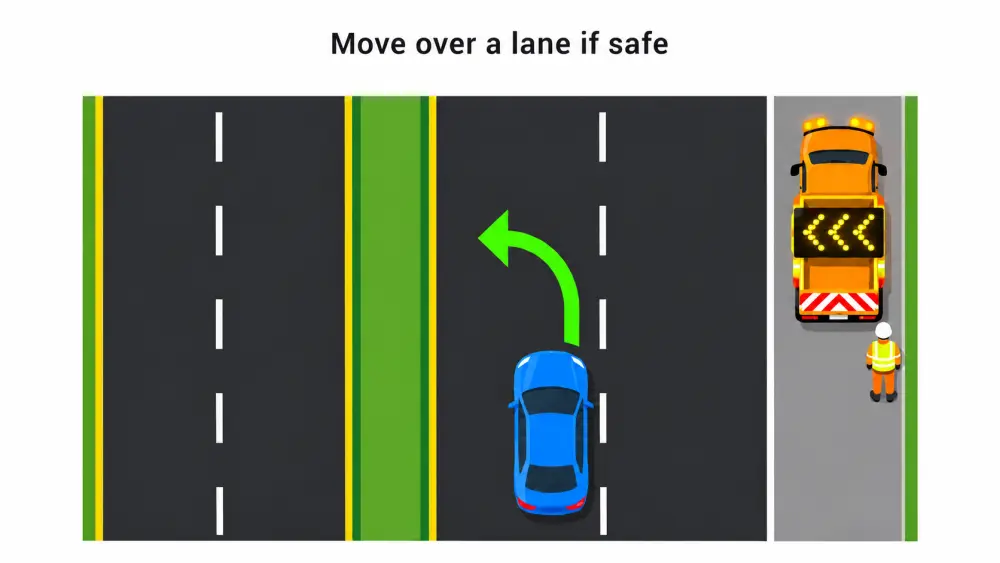
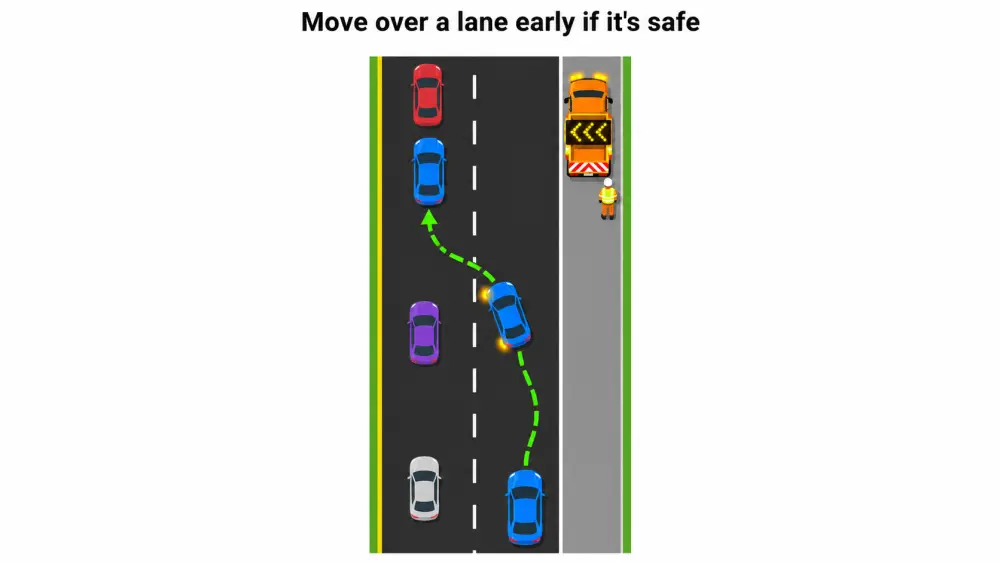
Move-over diagrams: zoomed-out merge and slow-down versions (Leah feedback)

diff --git a/move-over/indiana/index.html b/move-over/indiana/index.html
@@ -116,7 +116,7 @@
     <div class="sc-body" style="max-width:78ch;font-size:16px;line-height:1.6">
     <h2>What you have to do</h2>
     <ul><li>On a road with 4 or more lanes (2 or more each way), change to a lane not next to the vehicle if safe. Otherwise slow to at least 10 mph below the posted limit.</li></ul>
-    <figure style="margin:14px 0"><img src="/images/move-over/multilane.webp" width="1000" height="563" loading="lazy" alt="Diagram: a car moves one lane left, away from a stopped road crew truck with a flashing arrow board on the shoulder" style="max-width:100%;height:auto;border-radius:10px"></figure><figure style="margin:14px 0"><img src="/images/move-over/twolane.webp" width="1000" height="563" loading="lazy" alt="Diagram: on a two-lane road with oncoming traffic, a car stays in its lane and slows down past a tow truck helping a broken-down car" style="max-width:100%;height:auto;border-radius:10px"></figure>
+    <figure style="margin:14px 0"><img src="/images/move-over/multilane.webp" width="1000" height="563" loading="lazy" alt="Diagram: well before a stopped road crew truck on the right shoulder, a car moves from the right lane into a gap in the left lane and passes with the lane next to the truck empty" style="max-width:100%;height:auto;border-radius:10px"></figure><figure style="margin:14px 0"><img src="/images/move-over/twolane.webp" width="1000" height="563" loading="lazy" alt="Diagram: on a two-lane road with oncoming traffic, a car slows from 55 to 40 well before a tow truck helping a broken-down car on the shoulder" style="max-width:100%;height:auto;border-radius:10px"></figure>
     <h2>Who it protects</h2>
     <div><span style="display:inline-flex;align-items:center;gap:6px;border:1px solid #D6E8DE;border-radius:999px;padding:6px 12px;margin:0 6px 8px 0;font-size:15px;font-weight:600;background:#fff"><span aria-hidden="true">🚓</span>Police</span><span style="display:inline-flex;align-items:center;gap:6px;border:1px solid #D6E8DE;border-radius:999px;padding:6px 12px;margin:0 6px 8px 0;font-size:15px;font-weight:600;background:#fff"><span aria-hidden="true">🚑</span>Ambulances</span><span style="display:inline-flex;align-items:center;gap:6px;border:1px solid #D6E8DE;border-radius:999px;padding:6px 12px;margin:0 6px 8px 0;font-size:15px;font-weight:600;background:#fff"><span aria-hidden="true">🚒</span>Fire trucks</span><span style="display:inline-flex;align-items:center;gap:6px;border:1px solid #D6E8DE;border-radius:999px;padding:6px 12px;margin:0 6px 8px 0;font-size:15px;font-weight:600;background:#fff"><span aria-hidden="true">🛻</span>Tow trucks</span><span style="display:inline-flex;align-items:center;gap:6px;border:1px solid #D6E8DE;border-radius:999px;padding:6px 12px;margin:0 6px 8px 0;font-size:15px;font-weight:600;background:#fff"><span aria-hidden="true">🚧</span>Road crews and construction</span><span style="display:inline-flex;align-items:center;gap:6px;border:1px solid #D6E8DE;border-radius:999px;padding:6px 12px;margin:0 6px 8px 0;font-size:15px;font-weight:600;background:#fff"><span aria-hidden="true">❄</span>Snowplows</span><span style="display:inline-flex;align-items:center;gap:6px;border:1px solid #D6E8DE;border-radius:999px;padding:6px 12px;margin:0 6px 8px 0;font-size:15px;font-weight:600;background:#fff"><span aria-hidden="true">⚠</span>Breakdowns with hazard lights</span><span style="display:inline-flex;align-items:center;gap:6px;border:1px solid #D6E8DE;border-radius:999px;padding:6px 12px;margin:0 6px 8px 0;font-size:15px;font-weight:600;background:#fff"><span aria-hidden="true">🔌</span>Utility crews</span><span style="display:inline-flex;align-items:center;gap:6px;border:1px solid #D6E8DE;border-radius:999px;padding:6px 12px;margin:0 6px 8px 0;font-size:15px;font-weight:600;background:#fff"><span aria-hidden="true">🗑</span>Garbage trucks</span></div>
     <p style="color:#5b6670;font-size:14px;margin:6px 0 2px">What the statute says:</p>

diff --git a/move-over/florida/index.html b/move-over/florida/index.html
@@ -116,7 +116,7 @@
     <div class="sc-body" style="max-width:78ch;font-size:16px;line-height:1.6">
     <h2>What you have to do</h2>
     <ul><li>Move out of the lane closest to the vehicle if safe.</li><li>Otherwise slow to 20 mph below the limit (5 mph if the limit is 20 or less) on two-lane roads.</li></ul>
-    <figure style="margin:14px 0"><img src="/images/move-over/multilane.webp" width="1000" height="563" loading="lazy" alt="Diagram: a car moves one lane left, away from a stopped road crew truck with a flashing arrow board on the shoulder" style="max-width:100%;height:auto;border-radius:10px"></figure><figure style="margin:14px 0"><img src="/images/move-over/twolane.webp" width="1000" height="563" loading="lazy" alt="Diagram: on a two-lane road with oncoming traffic, a car stays in its lane and slows down past a tow truck helping a broken-down car" style="max-width:100%;height:auto;border-radius:10px"></figure>
+    <figure style="margin:14px 0"><img src="/images/move-over/multilane.webp" width="1000" height="563" loading="lazy" alt="Diagram: well before a stopped road crew truck on the right shoulder, a car moves from the right lane into a gap in the left lane and passes with the lane next to the truck empty" style="max-width:100%;height:auto;border-radius:10px"></figure><figure style="margin:14px 0"><img src="/images/move-over/twolane.webp" width="1000" height="563" loading="lazy" alt="Diagram: on a two-lane road with oncoming traffic, a car slows from 55 to 40 well before a tow truck helping a broken-down car on the shoulder" style="max-width:100%;height:auto;border-radius:10px"></figure>
     <h2>Who it protects</h2>
     <div><span style="display:inline-flex;align-items:center;gap:6px;border:1px solid #D6E8DE;border-radius:999px;padding:6px 12px;margin:0 6px 8px 0;font-size:15px;font-weight:600;background:#fff"><span aria-hidden="true">🚓</span>Police</span><span style="display:inline-flex;align-items:center;gap:6px;border:1px solid #D6E8DE;border-radius:999px;padding:6px 12px;margin:0 6px 8px 0;font-size:15px;font-weight:600;background:#fff"><span aria-hidden="true">🚑</span>Ambulances</span><span style="display:inline-flex;align-items:center;gap:6px;border:1px solid #D6E8DE;border-radius:999px;padding:6px 12px;margin:0 6px 8px 0;font-size:15px;font-weight:600;background:#fff"><span aria-hidden="true">🚒</span>Fire trucks</span><span style="display:inline-flex;align-items:center;gap:6px;border:1px solid #D6E8DE;border-radius:999px;padding:6px 12px;margin:0 6px 8px 0;font-size:15px;font-weight:600;background:#fff"><span aria-hidden="true">🛻</span>Tow trucks</span><span style="display:inline-flex;align-items:center;gap:6px;border:1px solid #D6E8DE;border-radius:999px;padding:6px 12px;margin:0 6px 8px 0;font-size:15px;font-weight:600;background:#fff"><span aria-hidden="true">🚧</span>Road crews and construction</span><span style="display:inline-flex;align-items:center;gap:6px;border:1px solid #D6E8DE;border-radius:999px;padding:6px 12px;margin:0 6px 8px 0;font-size:15px;font-weight:600;background:#fff"><span aria-hidden="true">❄</span>Snowplows</span><span style="display:inline-flex;align-items:center;gap:6px;border:1px solid #D6E8DE;border-radius:999px;padding:6px 12px;margin:0 6px 8px 0;font-size:15px;font-weight:600;background:#fff"><span aria-hidden="true">⚠</span>Breakdowns with hazard lights</span><span style="display:inline-flex;align-items:center;gap:6px;border:1px solid #D6E8DE;border-radius:999px;padding:6px 12px;margin:0 6px 8px 0;font-size:15px;font-weight:600;background:#fff"><span aria-hidden="true">🔌</span>Utility crews</span><span style="display:inline-flex;align-items:center;gap:6px;border:1px solid #D6E8DE;border-radius:999px;padding:6px 12px;margin:0 6px 8px 0;font-size:15px;font-weight:600;background:#fff"><span aria-hidden="true">🗑</span>Garbage trucks</span></div>
     <p style="color:#5b6670;font-size:14px;margin:6px 0 2px">What the statute says:</p>

diff --git a/move-over/iowa/index.html b/move-over/iowa/index.html
@@ -116,7 +116,7 @@
     <div class="sc-body" style="max-width:78ch;font-size:16px;line-height:1.6">
     <h2>What you have to do</h2>
     <ul><li>Change to a lane not next to the stopped vehicle if possible. If not, slow to a reasonable speed below the posted limit and be ready to stop.</li></ul>
-    <figure style="margin:14px 0"><img src="/images/move-over/multilane.webp" width="1000" height="563" loading="lazy" alt="Diagram: a car moves one lane left, away from a stopped road crew truck with a flashing arrow board on the shoulder" style="max-width:100%;height:auto;border-radius:10px"></figure><figure style="margin:14px 0"><img src="/images/move-over/twolane.webp" width="1000" height="563" loading="lazy" alt="Diagram: on a two-lane road with oncoming traffic, a car stays in its lane and slows down past a tow truck helping a broken-down car" style="max-width:100%;height:auto;border-radius:10px"></figure>
+    <figure style="margin:14px 0"><img src="/images/move-over/multilane.webp" width="1000" height="563" loading="lazy" alt="Diagram: well before a stopped road crew truck on the right shoulder, a car moves from the right lane into a gap in the left lane and passes with the lane next to the truck empty" style="max-width:100%;height:auto;border-radius:10px"></figure><figure style="margin:14px 0"><img src="/images/move-over/twolane.webp" width="1000" height="563" loading="lazy" alt="Diagram: on a two-lane road with oncoming traffic, a car slows from 55 to 40 well before a tow truck helping a broken-down car on the shoulder" style="max-width:100%;height:auto;border-radius:10px"></figure>
     <h2>Who it protects</h2>
     <div><span style="display:inline-flex;align-items:center;gap:6px;border:1px solid #D6E8DE;border-radius:999px;padding:6px 12px;margin:0 6px 8px 0;font-size:15px;font-weight:600;background:#fff"><span aria-hidden="true">🚓</span>Police</span><span style="display:inline-flex;align-items:center;gap:6px;border:1px solid #D6E8DE;border-radius:999px;padding:6px 12px;margin:0 6px 8px 0;font-size:15px;font-weight:600;background:#fff"><span aria-hidden="true">🚑</span>Ambulances</span><span style="display:inline-flex;align-items:center;gap:6px;border:1px solid #D6E8DE;border-radius:999px;padding:6px 12px;margin:0 6px 8px 0;font-size:15px;font-weight:600;background:#fff"><span aria-hidden="true">🚒</span>Fire trucks</span><span style="display:inline-flex;align-items:center;gap:6px;border:1px solid #D6E8DE;border-radius:999px;padding:6px 12px;margin:0 6px 8px 0;font-size:15px;font-weight:600;background:#fff"><span aria-hidden="true">🛻</span>Tow trucks</span><span style="display:inline-flex;align-items:center;gap:6px;border:1px solid #D6E8DE;border-radius:999px;padding:6px 12px;margin:0 6px 8px 0;font-size:15px;font-weight:600;background:#fff"><span aria-hidden="true">🚧</span>Road crews and construction</span><span style="display:inline-flex;align-items:center;gap:6px;border:1px solid #D6E8DE;border-radius:999px;padding:6px 12px;margin:0 6px 8px 0;font-size:15px;font-weight:600;background:#fff"><span aria-hidden="true">❄</span>Snowplows</span><span style="display:inline-flex;align-items:center;gap:6px;border:1px solid #D6E8DE;border-radius:999px;padding:6px 12px;margin:0 6px 8px 0;font-size:15px;font-weight:600;background:#fff"><span aria-hidden="true">⚠</span>Breakdowns with hazard lights</span><span style="display:inline-flex;align-items:center;gap:6px;border:1px solid #D6E8DE;border-radius:999px;padding:6px 12px;margin:0 6px 8px 0;font-size:15px;font-weight:600;background:#fff"><span aria-hidden="true">🔌</span>Utility crews</span><span style="display:inline-flex;align-items:center;gap:6px;border:1px solid #D6E8DE;border-radius:999px;padding:6px 12px;margin:0 6px 8px 0;font-size:15px;font-weight:600;background:#fff"><span aria-hidden="true">🗑</span>Garbage trucks</span></div>
     <p style="color:#5b6670;font-size:14px;margin:6px 0 2px">What the statute says:</p>

diff --git a/move-over/minnesota/index.html b/move-over/minnesota/index.html
@@ -116,7 +116,7 @@
     <div class="sc-body" style="max-width:78ch;font-size:16px;line-height:1.6">
     <h2>What you have to do</h2>
     <ul><li>Move to the lane farthest away, or leave a full lane open, if possible. If not, slow to a reasonable and prudent speed until past.</li></ul>
-    <figure style="margin:14px 0"><img src="/images/move-over/multilane.webp" width="1000" height="563" loading="lazy" alt="Diagram: a car moves one lane left, away from a stopped road crew truck with a flashing arrow board on the shoulder" style="max-width:100%;height:auto;border-radius:10px"></figure><figure style="margin:14px 0"><img src="/images/move-over/twolane.webp" width="1000" height="563" loading="lazy" alt="Diagram: on a two-lane road with oncoming traffic, a car stays in its lane and slows down past a tow truck helping a broken-down car" style="max-width:100%;height:auto;border-radius:10px"></figure>
+    <figure style="margin:14px 0"><img src="/images/move-over/multilane.webp" width="1000" height="563" loading="lazy" alt="Diagram: well before a stopped road crew truck on the right shoulder, a car moves from the right lane into a gap in the left lane and passes with the lane next to the truck empty" style="max-width:100%;height:auto;border-radius:10px"></figure><figure style="margin:14px 0"><img src="/images/move-over/twolane.webp" width="1000" height="563" loading="lazy" alt="Diagram: on a two-lane road with oncoming traffic, a car slows from 55 to 40 well before a tow truck helping a broken-down car on the shoulder" style="max-width:100%;height:auto;border-radius:10px"></figure>
     <h2>Who it protects</h2>
     <div><span style="display:inline-flex;align-items:center;gap:6px;border:1px solid #D6E8DE;border-radius:999px;padding:6px 12px;margin:0 6px 8px 0;font-size:15px;font-weight:600;background:#fff"><span aria-hidden="true">🚓</span>Police</span><span style="display:inline-flex;align-items:center;gap:6px;border:1px solid #D6E8DE;border-radius:999px;padding:6px 12px;margin:0 6px 8px 0;font-size:15px;font-weight:600;background:#fff"><span aria-hidden="true">🚑</span>Ambulances</span><span style="display:inline-flex;align-items:center;gap:6px;border:1px solid #D6E8DE;border-radius:999px;padding:6px 12px;margin:0 6px 8px 0;font-size:15px;font-weight:600;background:#fff"><span aria-hidden="true">🚒</span>Fire trucks</span><span style="display:inline-flex;align-items:center;gap:6px;border:1px solid #D6E8DE;border-radius:999px;padding:6px 12px;margin:0 6px 8px 0;font-size:15px;font-weight:600;background:#fff"><span aria-hidden="true">🛻</span>Tow trucks</span><span style="display:inline-flex;align-items:center;gap:6px;border:1px solid #D6E8DE;border-radius:999px;padding:6px 12px;margin:0 6px 8px 0;font-size:15px;font-weight:600;background:#fff"><span aria-hidden="true">🚧</span>Road crews and construction</span><span style="display:inline-flex;align-items:center;gap:6px;border:1px solid #D6E8DE;border-radius:999px;padding:6px 12px;margin:0 6px 8px 0;font-size:15px;font-weight:600;background:#fff"><span aria-hidden="true">❄</span>Snowplows</span><span style="display:inline-flex;align-items:center;gap:6px;border:1px solid #D6E8DE;border-radius:999px;padding:6px 12px;margin:0 6px 8px 0;font-size:15px;font-weight:600;background:#fff"><span aria-hidden="true">⚠</span>Breakdowns with hazard lights</span><span style="display:inline-flex;align-items:center;gap:6px;border:1px solid #D6E8DE;border-radius:999px;padding:6px 12px;margin:0 6px 8px 0;font-size:15px;font-weight:600;background:#fff"><span aria-hidden="true">🔌</span>Utility crews</span><span style="display:inline-flex;align-items:center;gap:6px;border:1px solid #D6E8DE;border-radius:999px;padding:6px 12px;margin:0 6px 8px 0;font-size:15px;font-weight:600;background:#fff"><span aria-hidden="true">🗑</span>Garbage trucks</span></div>
     <p style="color:#5b6670;font-size:14px;margin:6px 0 2px">What the statute says:</p>

diff --git a/move-over/nebraska/index.html b/move-over/nebraska/index.html
@@ -116,7 +116,7 @@
     <div class="sc-body" style="max-width:78ch;font-size:16px;line-height:1.6">
     <h2>What you have to do</h2>
     <ul><li>Move at least one lane away if possible, otherwise slow to a safe speed and proceed with care.</li></ul>
-    <figure style="margin:14px 0"><img src="/images/move-over/multilane.webp" width="1000" height="563" loading="lazy" alt="Diagram: a car moves one lane left, away from a stopped road crew truck with a flashing arrow board on the shoulder" style="max-width:100%;height:auto;border-radius:10px"></figure><figure style="margin:14px 0"><img src="/images/move-over/twolane.webp" width="1000" height="563" loading="lazy" alt="Diagram: on a two-lane road with oncoming traffic, a car stays in its lane and slows down past a tow truck helping a broken-down car" style="max-width:100%;height:auto;border-radius:10px"></figure>
+    <figure style="margin:14px 0"><img src="/images/move-over/multilane.webp" width="1000" height="563" loading="lazy" alt="Diagram: well before a stopped road crew truck on the right shoulder, a car moves from the right lane into a gap in the left lane and passes with the lane next to the truck empty" style="max-width:100%;height:auto;border-radius:10px"></figure><figure style="margin:14px 0"><img src="/images/move-over/twolane.webp" width="1000" height="563" loading="lazy" alt="Diagram: on a two-lane road with oncoming traffic, a car slows from 55 to 40 well before a tow truck helping a broken-down car on the shoulder" style="max-width:100%;height:auto;border-radius:10px"></figure>
     <h2>Who it protects</h2>
     <div><span style="display:inline-flex;align-items:center;gap:6px;border:1px solid #D6E8DE;border-radius:999px;padding:6px 12px;margin:0 6px 8px 0;font-size:15px;font-weight:600;background:#fff"><span aria-hidden="true">🚓</span>Police</span><span style="display:inline-flex;align-items:center;gap:6px;border:1px solid #D6E8DE;border-radius:999px;padding:6px 12px;margin:0 6px 8px 0;font-size:15px;font-weight:600;background:#fff"><span aria-hidden="true">🚑</span>Ambulances</span><span style="display:inline-flex;align-items:center;gap:6px;border:1px solid #D6E8DE;border-radius:999px;padding:6px 12px;margin:0 6px 8px 0;font-size:15px;font-weight:600;background:#fff"><span aria-hidden="true">🚒</span>Fire trucks</span><span style="display:inline-flex;align-items:center;gap:6px;border:1px solid #D6E8DE;border-radius:999px;padding:6px 12px;margin:0 6px 8px 0;font-size:15px;font-weight:600;background:#fff"><span aria-hidden="true">🛻</span>Tow trucks</span><span style="display:inline-flex;align-items:center;gap:6px;border:1px solid #D6E8DE;border-radius:999px;padding:6px 12px;margin:0 6px 8px 0;font-size:15px;font-weight:600;background:#fff"><span aria-hidden="true">🚧</span>Road crews and construction</span><span style="display:inline-flex;align-items:center;gap:6px;border:1px solid #D6E8DE;border-radius:999px;padding:6px 12px;margin:0 6px 8px 0;font-size:15px;font-weight:600;background:#fff"><span aria-hidden="true">❄</span>Snowplows</span><span style="display:inline-flex;align-items:center;gap:6px;border:1px solid #D6E8DE;border-radius:999px;padding:6px 12px;margin:0 6px 8px 0;font-size:15px;font-weight:600;background:#fff"><span aria-hidden="true">⚠</span>Breakdowns with hazard lights</span><span style="display:inline-flex;align-items:center;gap:6px;border:1px solid #D6E8DE;border-radius:999px;padding:6px 12px;margin:0 6px 8px 0;font-size:15px;font-weight:600;background:#fff"><span aria-hidden="true">🔌</span>Utility crews</span><span style="display:inline-flex;align-items:center;gap:6px;border:1px solid #D6E8DE;border-radius:999px;padding:6px 12px;margin:0 6px 8px 0;font-size:15px;font-weight:600;background:#fff"><span aria-hidden="true">🗑</span>Garbage trucks</span></div>
     <p style="color:#5b6670;font-size:14px;margin:6px 0 2px">What the statute says:</p>

diff --git a/move-over/alabama/index.html b/move-over/alabama/index.html
@@ -116,7 +116,7 @@
     <div class="sc-body" style="max-width:78ch;font-size:16px;line-height:1.6">
     <h2>What you have to do</h2>
     <ul><li>Move out of the lane closest to the vehicle on multi-lane roads, or slow to at least 15 mph below the limit if you cannot.</li><li>On two-lane roads move as far over as possible and slow down.</li></ul>
-    <figure style="margin:14px 0"><img src="/images/move-over/multilane.webp" width="1000" height="563" loading="lazy" alt="Diagram: a car moves one lane left, away from a stopped road crew truck with a flashing arrow board on the shoulder" style="max-width:100%;height:auto;border-radius:10px"></figure><figure style="margin:14px 0"><img src="/images/move-over/twolane.webp" width="1000" height="563" loading="lazy" alt="Diagram: on a two-lane road with oncoming traffic, a car stays in its lane and slows down past a tow truck helping a broken-down car" style="max-width:100%;height:auto;border-radius:10px"></figure>
+    <figure style="margin:14px 0"><img src="/images/move-over/multilane.webp" width="1000" height="563" loading="lazy" alt="Diagram: well before a stopped road crew truck on the right shoulder, a car moves from the right lane into a gap in the left lane and passes with the lane next to the truck empty" style="max-width:100%;height:auto;border-radius:10px"></figure><figure style="margin:14px 0"><img src="/images/move-over/twolane.webp" width="1000" height="563" loading="lazy" alt="Diagram: on a two-lane road with oncoming traffic, a car slows from 55 to 40 well before a tow truck helping a broken-down car on the shoulder" style="max-width:100%;height:auto;border-radius:10px"></figure>
     <h2>Who it protects</h2>
     <div><span style="display:inline-flex;align-items:center;gap:6px;border:1px solid #D6E8DE;border-radius:999px;padding:6px 12px;margin:0 6px 8px 0;font-size:15px;font-weight:600;background:#fff"><span aria-hidden="true">🚓</span>Police</span><span style="display:inline-flex;align-items:center;gap:6px;border:1px solid #D6E8DE;border-radius:999px;padding:6px 12px;margin:0 6px 8px 0;font-size:15px;font-weight:600;background:#fff"><span aria-hidden="true">🚑</span>Ambulances</span><span style="display:inline-flex;align-items:center;gap:6px;border:1px solid #D6E8DE;border-radius:999px;padding:6px 12px;margin:0 6px 8px 0;font-size:15px;font-weight:600;background:#fff"><span aria-hidden="true">🚒</span>Fire trucks</span><span style="display:inline-flex;align-items:center;gap:6px;border:1px solid #D6E8DE;border-radius:999px;padding:6px 12px;margin:0 6px 8px 0;font-size:15px;font-weight:600;background:#fff"><span aria-hidden="true">🛻</span>Tow trucks</span><span style="display:inline-flex;align-items:center;gap:6px;border:1px solid #D6E8DE;border-radius:999px;padding:6px 12px;margin:0 6px 8px 0;font-size:15px;font-weight:600;background:#fff"><span aria-hidden="true">🚧</span>Road crews and construction</span><span style="display:inline-flex;align-items:center;gap:6px;border:1px solid #D6E8DE;border-radius:999px;padding:6px 12px;margin:0 6px 8px 0;font-size:15px;font-weight:600;background:#fff"><span aria-hidden="true">❄</span>Snowplows</span><span style="display:inline-flex;align-items:center;gap:6px;border:1px solid #D6E8DE;border-radius:999px;padding:6px 12px;margin:0 6px 8px 0;font-size:15px;font-weight:600;background:#fff"><span aria-hidden="true">🔌</span>Utility crews</span><span style="display:inline-flex;align-items:center;gap:6px;border:1px solid #D6E8DE;border-radius:999px;padding:6px 12px;margin:0 6px 8px 0;font-size:15px;font-weight:600;background:#fff"><span aria-hidden="true">🗑</span>Garbage trucks</span></div>
     <p style="color:#5b6670;font-size:14px;margin:6px 0 2px">What the statute says:</p>

diff --git a/move-over/texas/index.html b/move-over/texas/index.html
@@ -116,7 +116,7 @@
     <div class="sc-body" style="max-width:78ch;font-size:16px;line-height:1.6">
     <h2>What you have to do</h2>
     <ul><li>Move out of the lane closest to the vehicle on a road with two or more lanes in your direction, or slow to 20 mph under the posted limit (5 mph if the limit is under 25).</li></ul>
-    <figure style="margin:14px 0"><img src="/images/move-over/multilane.webp" width="1000" height="563" loading="lazy" alt="Diagram: a car moves one lane left, away from a stopped road crew truck with a flashing arrow board on the shoulder" style="max-width:100%;height:auto;border-radius:10px"></figure><figure style="margin:14px 0"><img src="/images/move-over/twolane.webp" width="1000" height="563" loading="lazy" alt="Diagram: on a two-lane road with oncoming traffic, a car stays in its lane and slows down past a tow truck helping a broken-down car" style="max-width:100%;height:auto;border-radius:10px"></figure>
+    <figure style="margin:14px 0"><img src="/images/move-over/multilane.webp" width="1000" height="563" loading="lazy" alt="Diagram: well before a stopped road crew truck on the right shoulder, a car moves from the right lane into a gap in the left lane and passes with the lane next to the truck empty" style="max-width:100%;height:auto;border-radius:10px"></figure><figure style="margin:14px 0"><img src="/images/move-over/twolane.webp" width="1000" height="563" loading="lazy" alt="Diagram: on a two-lane road with oncoming traffic, a car slows from 55 to 40 well before a tow truck helping a broken-down car on the shoulder" style="max-width:100%;height:auto;border-radius:10px"></figure>
     <h2>Who it protects</h2>
     <div><span style="display:inline-flex;align-items:center;gap:6px;border:1px solid #D6E8DE;border-radius:999px;padding:6px 12px;margin:0 6px 8px 0;font-size:15px;font-weight:600;background:#fff"><span aria-hidden="true">🚓</span>Police</span><span style="display:inline-flex;align-items:center;gap:6px;border:1px solid #D6E8DE;border-radius:999px;padding:6px 12px;margin:0 6px 8px 0;font-size:15px;font-weight:600;background:#fff"><span aria-hidden="true">🚑</span>Ambulances</span><span style="display:inline-flex;align-items:center;gap:6px;border:1px solid #D6E8DE;border-radius:999px;padding:6px 12px;margin:0 6px 8px 0;font-size:15px;font-weight:600;background:#fff"><span aria-hidden="true">🚒</span>Fire trucks</span><span style="display:inline-flex;align-items:center;gap:6px;border:1px solid #D6E8DE;border-radius:999px;padding:6px 12px;margin:0 6px 8px 0;font-size:15px;font-weight:600;background:#fff"><span aria-hidden="true">🛻</span>Tow trucks</span><span style="display:inline-flex;align-items:center;gap:6px;border:1px solid #D6E8DE;border-radius:999px;padding:6px 12px;margin:0 6px 8px 0;font-size:15px;font-weight:600;background:#fff"><span aria-hidden="true">🚧</span>Road crews and construction</span><span style="display:inline-flex;align-items:center;gap:6px;border:1px solid #D6E8DE;border-radius:999px;padding:6px 12px;margin:0 6px 8px 0;font-size:15px;font-weight:600;background:#fff"><span aria-hidden="true">❄</span>Snowplows</span><span style="display:inline-flex;align-items:center;gap:6px;border:1px solid #D6E8DE;border-radius:999px;padding:6px 12px;margin:0 6px 8px 0;font-size:15px;font-weight:600;background:#fff"><span aria-hidden="true">🔌</span>Utility crews</span><span style="display:inline-flex;align-items:center;gap:6px;border:1px solid #D6E8DE;border-radius:999px;padding:6px 12px;margin:0 6px 8px 0;font-size:15px;font-weight:600;background:#fff"><span aria-hidden="true">🗑</span>Garbage trucks</span></div>
     <p style="color:#5b6670;font-size:14px;margin:6px 0 2px">What the statute says:</p>

diff --git a/move-over/wisconsin/index.html b/move-over/wisconsin/index.html
@@ -116,7 +116,7 @@
     <div class="sc-body" style="max-width:78ch;font-size:16px;line-height:1.6">
     <h2>What you have to do</h2>
     <ul><li>Move out of the lane nearest the stopped vehicle if safe on a road with two or more lanes in your direction, otherwise slow to a safe speed until past.</li></ul>
-    <figure style="margin:14px 0"><img src="/images/move-over/multilane.webp" width="1000" height="563" loading="lazy" alt="Diagram: a car moves one lane left, away from a stopped road crew truck with a flashing arrow board on the shoulder" style="max-width:100%;height:auto;border-radius:10px"></figure><figure style="margin:14px 0"><img src="/images/move-over/twolane.webp" width="1000" height="563" loading="lazy" alt="Diagram: on a two-lane road with oncoming traffic, a car stays in its lane and slows down past a tow truck helping a broken-down car" style="max-width:100%;height:auto;border-radius:10px"></figure>
+    <figure style="margin:14px 0"><img src="/images/move-over/multilane.webp" width="1000" height="563" loading="lazy" alt="Diagram: well before a stopped road crew truck on the right shoulder, a car moves from the right lane into a gap in the left lane and passes with the lane next to the truck empty" style="max-width:100%;height:auto;border-radius:10px"></figure><figure style="margin:14px 0"><img src="/images/move-over/twolane.webp" width="1000" height="563" loading="lazy" alt="Diagram: on a two-lane road with oncoming traffic, a car slows from 55 to 40 well before a tow truck helping a broken-down car on the shoulder" style="max-width:100%;height:auto;border-radius:10px"></figure>
     <h2>Who it protects</h2>
     <div><span style="display:inline-flex;align-items:center;gap:6px;border:1px solid #D6E8DE;border-radius:999px;padding:6px 12px;margin:0 6px 8px 0;font-size:15px;font-weight:600;background:#fff"><span aria-hidden="true">🚓</span>Police</span><span style="display:inline-flex;align-items:center;gap:6px;border:1px solid #D6E8DE;border-radius:999px;padding:6px 12px;margin:0 6px 8px 0;font-size:15px;font-weight:600;background:#fff"><span aria-hidden="true">🚑</span>Ambulances</span><span style="display:inline-flex;align-items:center;gap:6px;border:1px solid #D6E8DE;border-radius:999px;padding:6px 12px;margin:0 6px 8px 0;font-size:15px;font-weight:600;background:#fff"><span aria-hidden="true">🚒</span>Fire trucks</span><span style="display:inline-flex;align-items:center;gap:6px;border:1px solid #D6E8DE;border-radius:999px;padding:6px 12px;margin:0 6px 8px 0;font-size:15px;font-weight:600;background:#fff"><span aria-hidden="true">🛻</span>Tow trucks</span><span style="display:inline-flex;align-items:center;gap:6px;border:1px solid #D6E8DE;border-radius:999px;padding:6px 12px;margin:0 6px 8px 0;font-size:15px;font-weight:600;background:#fff"><span aria-hidden="true">🚧</span>Road crews and construction</span><span style="display:inline-flex;align-items:center;gap:6px;border:1px solid #D6E8DE;border-radius:999px;padding:6px 12px;margin:0 6px 8px 0;font-size:15px;font-weight:600;background:#fff"><span aria-hidden="true">❄</span>Snowplows</span><span style="display:inline-flex;align-items:center;gap:6px;border:1px solid #D6E8DE;border-radius:999px;padding:6px 12px;margin:0 6px 8px 0;font-size:15px;font-weight:600;background:#fff"><span aria-hidden="true">⚠</span>Breakdowns with hazard lights</span><span style="display:inline-flex;align-items:center;gap:6px;border:1px solid #D6E8DE;border-radius:999px;padding:6px 12px;margin:0 6px 8px 0;font-size:15px;font-weight:600;background:#fff"><span aria-hidden="true">🔌</span>Utility crews</span></div>
     <p style="color:#5b6670;font-size:14px;margin:6px 0 2px">What the statute says:</p>

diff --git a/move-over/colorado/index.html b/move-over/colorado/index.html
@@ -116,7 +116,7 @@
     <div class="sc-body" style="max-width:78ch;font-size:16px;line-height:1.6">
     <h2>What you have to do</h2>
     <ul><li>On a road with two or more lanes in your direction, move at least one lane away.</li><li>If you cannot, slow to a safe speed and proceed with caution.</li></ul>
-    <figure style="margin:14px 0"><img src="/images/move-over/multilane.webp" width="1000" height="563" loading="lazy" alt="Diagram: a car moves one lane left, away from a stopped road crew truck with a flashing arrow board on the shoulder" style="max-width:100%;height:auto;border-radius:10px"></figure><figure style="margin:14px 0"><img src="/images/move-over/twolane.webp" width="1000" height="563" loading="lazy" alt="Diagram: on a two-lane road with oncoming traffic, a car stays in its lane and slows down past a tow truck helping a broken-down car" style="max-width:100%;height:auto;border-radius:10px"></figure>
+    <figure style="margin:14px 0"><img src="/images/move-over/multilane.webp" width="1000" height="563" loading="lazy" alt="Diagram: well before a stopped road crew truck on the right shoulder, a car moves from the right lane into a gap in the left lane and passes with the lane next to the truck empty" style="max-width:100%;height:auto;border-radius:10px"></figure><figure style="margin:14px 0"><img src="/images/move-over/twolane.webp" width="1000" height="563" loading="lazy" alt="Diagram: on a two-lane road with oncoming traffic, a car slows from 55 to 40 well before a tow truck helping a broken-down car on the shoulder" style="max-width:100%;height:auto;border-radius:10px"></figure>
     <h2>Who it protects</h2>
     <div><span style="display:inline-flex;align-items:center;gap:6px;border:1px solid #D6E8DE;border-radius:999px;padding:6px 12px;margin:0 6px 8px 0;font-size:15px;font-weight:600;background:#fff"><span aria-hidden="true">🚓</span>Police</span><span style="display:inline-flex;align-items:center;gap:6px;border:1px solid #D6E8DE;border-radius:999px;padding:6px 12px;margin:0 6px 8px 0;font-size:15px;font-weight:600;background:#fff"><span aria-hidden="true">🚑</span>Ambulances</span><span style="display:inline-flex;align-items:center;gap:6px;border:1px solid #D6E8DE;border-radius:999px;padding:6px 12px;margin:0 6px 8px 0;font-size:15px;font-weight:600;background:#fff"><span aria-hidden="true">🚒</span>Fire trucks</span><span style="display:inline-flex;align-items:center;gap:6px;border:1px solid #D6E8DE;border-radius:999px;padding:6px 12px;margin:0 6px 8px 0;font-size:15px;font-weight:600;background:#fff"><span aria-hidden="true">🛻</span>Tow trucks</span><span style="display:inline-flex;align-items:center;gap:6px;border:1px solid #D6E8DE;border-radius:999px;padding:6px 12px;margin:0 6px 8px 0;font-size:15px;font-weight:600;background:#fff"><span aria-hidden="true">🚧</span>Road crews and construction</span><span style="display:inline-flex;align-items:center;gap:6px;border:1px solid #D6E8DE;border-radius:999px;padding:6px 12px;margin:0 6px 8px 0;font-size:15px;font-weight:600;background:#fff"><span aria-hidden="true">❄</span>Snowplows</span><span style="display:inline-flex;align-items:center;gap:6px;border:1px solid #D6E8DE;border-radius:999px;padding:6px 12px;margin:0 6px 8px 0;font-size:15px;font-weight:600;background:#fff"><span aria-hidden="true">⚠</span>Breakdowns with hazard lights</span><span style="display:inline-flex;align-items:center;gap:6px;border:1px solid #D6E8DE;border-radius:999px;padding:6px 12px;margin:0 6px 8px 0;font-size:15px;font-weight:600;background:#fff"><span aria-hidden="true">🔌</span>Utility crews</span></div>
     <p style="color:#5b6670;font-size:14px;margin:6px 0 2px">What the statute says:</p>

diff --git a/move-over/delaware/index.html b/move-over/delaware/index.html
@@ -116,7 +116,7 @@
     <div class="sc-body" style="max-width:78ch;font-size:16px;line-height:1.6">
     <h2>What you have to do</h2>
     <ul><li>Change lanes away on roads with four or more lanes.</li><li>If you cannot, slow at least 20 mph below the limit when the limit is 50 mph or higher.</li></ul>
-    <figure style="margin:14px 0"><img src="/images/move-over/multilane.webp" width="1000" height="563" loading="lazy" alt="Diagram: a car moves one lane left, away from a stopped road crew truck with a flashing arrow board on the shoulder" style="max-width:100%;height:auto;border-radius:10px"></figure><figure style="margin:14px 0"><img src="/images/move-over/twolane.webp" width="1000" height="563" loading="lazy" alt="Diagram: on a two-lane road with oncoming traffic, a car stays in its lane and slows down past a tow truck helping a broken-down car" style="max-width:100%;height:auto;border-radius:10px"></figure>
+    <figure style="margin:14px 0"><img src="/images/move-over/multilane.webp" width="1000" height="563" loading="lazy" alt="Diagram: well before a stopped road crew truck on the right shoulder, a car moves from the right lane into a gap in the left lane and passes with the lane next to the truck empty" style="max-width:100%;height:auto;border-radius:10px"></figure><figure style="margin:14px 0"><img src="/images/move-over/twolane.webp" width="1000" height="563" loading="lazy" alt="Diagram: on a two-lane road with oncoming traffic, a car slows from 55 to 40 well before a tow truck helping a broken-down car on the shoulder" style="max-width:100%;height:auto;border-radius:10px"></figure>
     <h2>Who it protects</h2>
     <div><span style="display:inline-flex;align-items:center;gap:6px;border:1px solid #D6E8DE;border-radius:999px;padding:6px 12px;margin:0 6px 8px 0;font-size:15px;font-weight:600;background:#fff"><span aria-hidden="true">🚓</span>Police</span><span style="display:inline-flex;align-items:center;gap:6px;border:1px solid #D6E8DE;border-radius:999px;padding:6px 12px;margin:0 6px 8px 0;font-size:15px;font-weight:600;background:#fff"><span aria-hidden="true">🚑</span>Ambulances</span><span style="display:inline-flex;align-items:center;gap:6px;border:1px solid #D6E8DE;border-radius:999px;padding:6px 12px;margin:0 6px 8px 0;font-size:15px;font-weight:600;background:#fff"><span aria-hidden="true">🚒</span>Fire trucks</span><span style="display:inline-flex;align-items:center;gap:6px;border:1px solid #D6E8DE;border-radius:999px;padding:6px 12px;margin:0 6px 8px 0;font-size:15px;font-weight:600;background:#fff"><span aria-hidden="true">🛻</span>Tow trucks</span><span style="display:inline-flex;align-items:center;gap:6px;border:1px solid #D6E8DE;border-radius:999px;padding:6px 12px;margin:0 6px 8px 0;font-size:15px;font-weight:600;background:#fff"><span aria-hidden="true">🚧</span>Road crews and construction</span><span style="display:inline-flex;align-items:center;gap:6px;border:1px solid #D6E8DE;border-radius:999px;padding:6px 12px;margin:0 6px 8px 0;font-size:15px;font-weight:600;background:#fff"><span aria-hidden="true">❄</span>Snowplows</span><span style="display:inline-flex;align-items:center;gap:6px;border:1px solid #D6E8DE;border-radius:999px;padding:6px 12px;margin:0 6px 8px 0;font-size:15px;font-weight:600;background:#fff"><span aria-hidden="true">⚠</span>Breakdowns with hazard lights</span><span style="display:inline-flex;align-items:center;gap:6px;border:1px solid #D6E8DE;border-radius:999px;padding:6px 12px;margin:0 6px 8px 0;font-size:15px;font-weight:600;background:#fff"><span aria-hidden="true">🔌</span>Utility crews</span></div>
     <p style="color:#5b6670;font-size:14px;margin:6px 0 2px">What the statute says:</p>

diff --git a/move-over/washington/index.html b/move-over/washington/index.html
@@ -116,7 +116,7 @@
     <div class="sc-body" style="max-width:78ch;font-size:16px;line-height:1.6">
     <h2>What you have to do</h2>
     <ul><li>Slow down and, if safe, move away from the vehicle.</li><li>If you cannot, slow to at least 10 mph under the limit (no more than 50 mph if the limit is over 60).</li></ul>
-    <figure style="margin:14px 0"><img src="/images/move-over/multilane.webp" width="1000" height="563" loading="lazy" alt="Diagram: a car moves one lane left, away from a stopped road crew truck with a flashing arrow board on the shoulder" style="max-width:100%;height:auto;border-radius:10px"></figure><figure style="margin:14px 0"><img src="/images/move-over/twolane.webp" width="1000" height="563" loading="lazy" alt="Diagram: on a two-lane road with oncoming traffic, a car stays in its lane and slows down past a tow truck helping a broken-down car" style="max-width:100%;height:auto;border-radius:10px"></figure>
+    <figure style="margin:14px 0"><img src="/images/move-over/multilane.webp" width="1000" height="563" loading="lazy" alt="Diagram: well before a stopped road crew truck on the right shoulder, a car moves from the right lane into a gap in the left lane and passes with the lane next to the truck empty" style="max-width:100%;height:auto;border-radius:10px"></figure><figure style="margin:14px 0"><img src="/images/move-over/twolane.webp" width="1000" height="563" loading="lazy" alt="Diagram: on a two-lane road with oncoming traffic, a car slows from 55 to 40 well before a tow truck helping a broken-down car on the shoulder" style="max-width:100%;height:auto;border-radius:10px"></figure>
     <h2>Who it protects</h2>
     <div><span style="display:inline-flex;align-items:center;gap:6px;border:1px solid #D6E8DE;border-radius:999px;padding:6px 12px;margin:0 6px 8px 0;font-size:15px;font-weight:600;background:#fff"><span aria-hidden="true">🚓</span>Police</span><span style="display:inline-flex;align-items:center;gap:6px;border:1px solid #D6E8DE;border-radius:999px;padding:6px 12px;margin:0 6px 8px 0;font-size:15px;font-weight:600;background:#fff"><span aria-hidden="true">🚑</span>Ambulances</span><span style="display:inline-flex;align-items:center;gap:6px;border:1px solid #D6E8DE;border-radius:999px;padding:6px 12px;margin:0 6px 8px 0;font-size:15px;font-weight:600;background:#fff"><span aria-hidden="true">🚒</span>Fire trucks</span><span style="display:inline-flex;align-items:center;gap:6px;border:1px solid #D6E8DE;border-radius:999px;padding:6px 12px;margin:0 6px 8px 0;font-size:15px;font-weight:600;background:#fff"><span aria-hidden="true">🛻</span>Tow trucks</span><span style="display:inline-flex;align-items:center;gap:6px;border:1px solid #D6E8DE;border-radius:999px;padding:6px 12px;margin:0 6px 8px 0;font-size:15px;font-weight:600;background:#fff"><span aria-hidden="true">🚧</span>Road crews and construction</span><span style="display:inline-flex;align-items:center;gap:6px;border:1px solid #D6E8DE;border-radius:999px;padding:6px 12px;margin:0 6px 8px 0;font-size:15px;font-weight:600;background:#fff"><span aria-hidden="true">❄</span>Snowplows</span><span style="display:inline-flex;align-items:center;gap:6px;border:1px solid #D6E8DE;border-radius:999px;padding:6px 12px;margin:0 6px 8px 0;font-size:15px;font-weight:600;background:#fff"><span aria-hidden="true">🔌</span>Utility crews</span><span style="display:inline-flex;align-items:center;gap:6px;border:1px solid #D6E8DE;border-radius:999px;padding:6px 12px;margin:0 6px 8px 0;font-size:15px;font-weight:600;background:#fff"><span aria-hidden="true">🗑</span>Garbage trucks</span></div>
     <p style="color:#5b6670;font-size:14px;margin:6px 0 2px">What the statute says:</p>

diff --git a/move-over/georgia/index.html b/move-over/georgia/index.html
@@ -116,7 +116,7 @@
     <div class="sc-body" style="max-width:78ch;font-size:16px;line-height:1.6">
     <h2>What you have to do</h2>
     <ul><li>Change to a lane not next to the stopped vehicle if safe, otherwise slow to a reasonable speed below the posted limit and be ready to stop.</li></ul>
-    <figure style="margin:14px 0"><img src="/images/move-over/multilane.webp" width="1000" height="563" loading="lazy" alt="Diagram: a car moves one lane left, away from a stopped road crew truck with a flashing arrow board on the shoulder" style="max-width:100%;height:auto;border-radius:10px"></figure><figure style="margin:14px 0"><img src="/images/move-over/twolane.webp" width="1000" height="563" loading="lazy" alt="Diagram: on a two-lane road with oncoming traffic, a car stays in its lane and slows down past a tow truck helping a broken-down car" style="max-width:100%;height:auto;border-radius:10px"></figure>
+    <figure style="margin:14px 0"><img src="/images/move-over/multilane.webp" width="1000" height="563" loading="lazy" alt="Diagram: well before a stopped road crew truck on the right shoulder, a car moves from the right lane into a gap in the left lane and passes with the lane next to the truck empty" style="max-width:100%;height:auto;border-radius:10px"></figure><figure style="margin:14px 0"><img src="/images/move-over/twolane.webp" width="1000" height="563" loading="lazy" alt="Diagram: on a two-lane road with oncoming traffic, a car slows from 55 to 40 well before a tow truck helping a broken-down car on the shoulder" style="max-width:100%;height:auto;border-radius:10px"></figure>
     <h2>Who it protects</h2>
     <div><span style="display:inline-flex;align-items:center;gap:6px;border:1px solid #D6E8DE;border-radius:999px;padding:6px 12px;margin:0 6px 8px 0;font-size:15px;font-weight:600;background:#fff"><span aria-hidden="true">🚓</span>Police</span><span style="display:inline-flex;align-items:center;gap:6px;border:1px solid #D6E8DE;border-radius:999px;padding:6px 12px;margin:0 6px 8px 0;font-size:15px;font-weight:600;background:#fff"><span aria-hidden="true">🚑</span>Ambulances</span><span style="display:inline-flex;align-items:center;gap:6px;border:1px solid #D6E8DE;border-radius:999px;padding:6px 12px;margin:0 6px 8px 0;font-size:15px;font-weight:600;background:#fff"><span aria-hidden="true">🚒</span>Fire trucks</span><span style="display:inline-flex;align-items:center;gap:6px;border:1px solid #D6E8DE;border-radius:999px;padding:6px 12px;margin:0 6px 8px 0;font-size:15px;font-weight:600;background:#fff"><span aria-hidden="true">🛻</span>Tow trucks</span><span style="display:inline-flex;align-items:center;gap:6px;border:1px solid #D6E8DE;border-radius:999px;padding:6px 12px;margin:0 6px 8px 0;font-size:15px;font-weight:600;background:#fff"><span aria-hidden="true">🚧</span>Road crews and construction</span><span style="display:inline-flex;align-items:center;gap:6px;border:1px solid #D6E8DE;border-radius:999px;padding:6px 12px;margin:0 6px 8px 0;font-size:15px;font-weight:600;background:#fff"><span aria-hidden="true">❄</span>Snowplows</span><span style="display:inline-flex;align-items:center;gap:6px;border:1px solid #D6E8DE;border-radius:999px;padding:6px 12px;margin:0 6px 8px 0;font-size:15px;font-weight:600;background:#fff"><span aria-hidden="true">🔌</span>Utility crews</span><span style="display:inline-flex;align-items:center;gap:6px;border:1px solid #D6E8DE;border-radius:999px;padding:6px 12px;margin:0 6px 8px 0;font-size:15px;font-weight:600;background:#fff"><span aria-hidden="true">🗑</span>Garbage trucks</span></div>
     <p style="color:#5b6670;font-size:14px;margin:6px 0 2px">What the statute says:</p>
